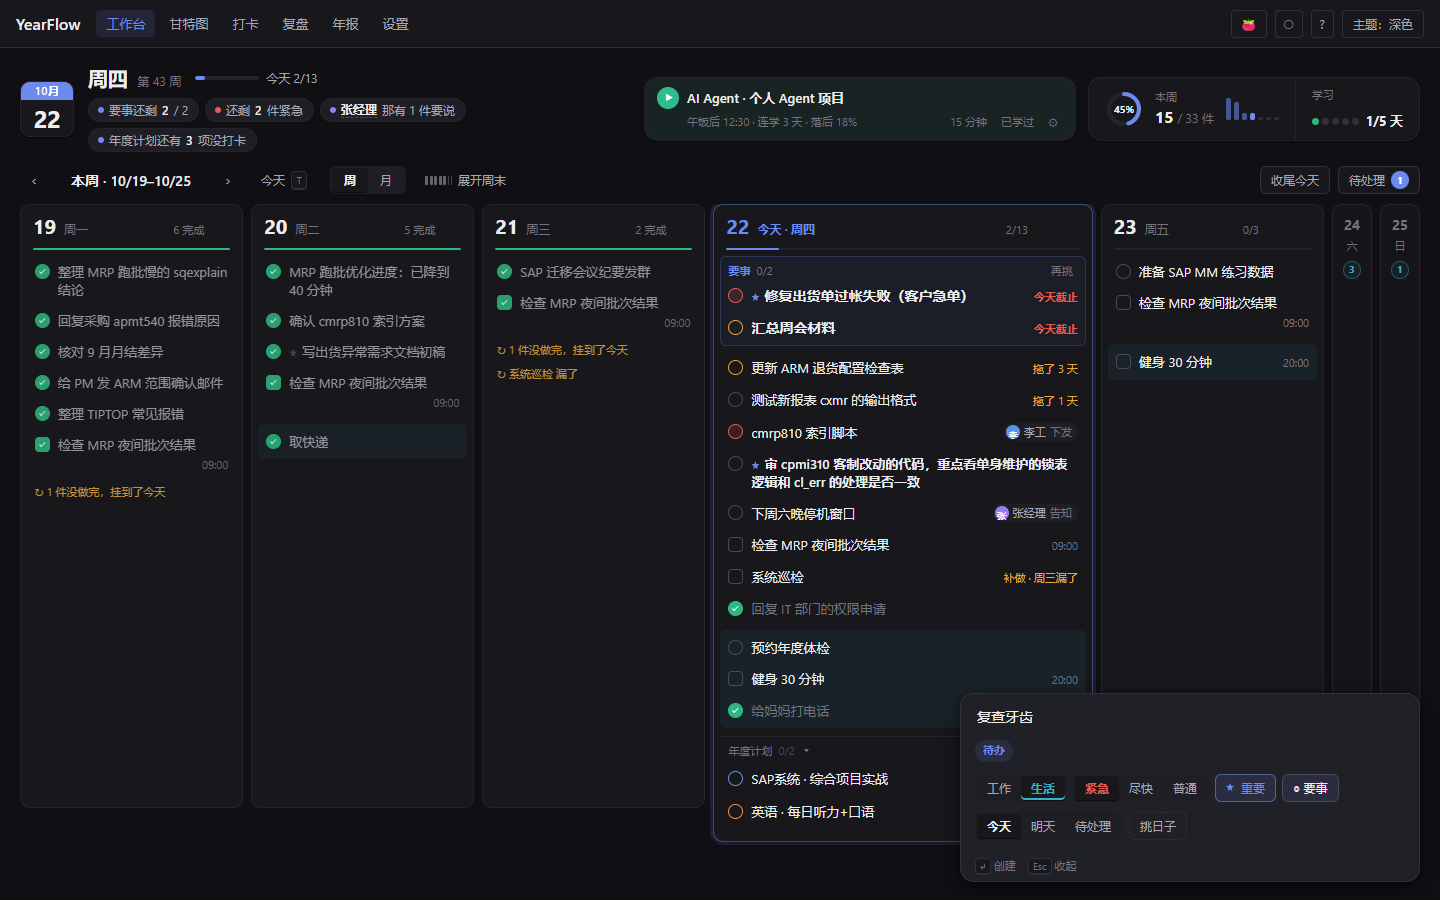
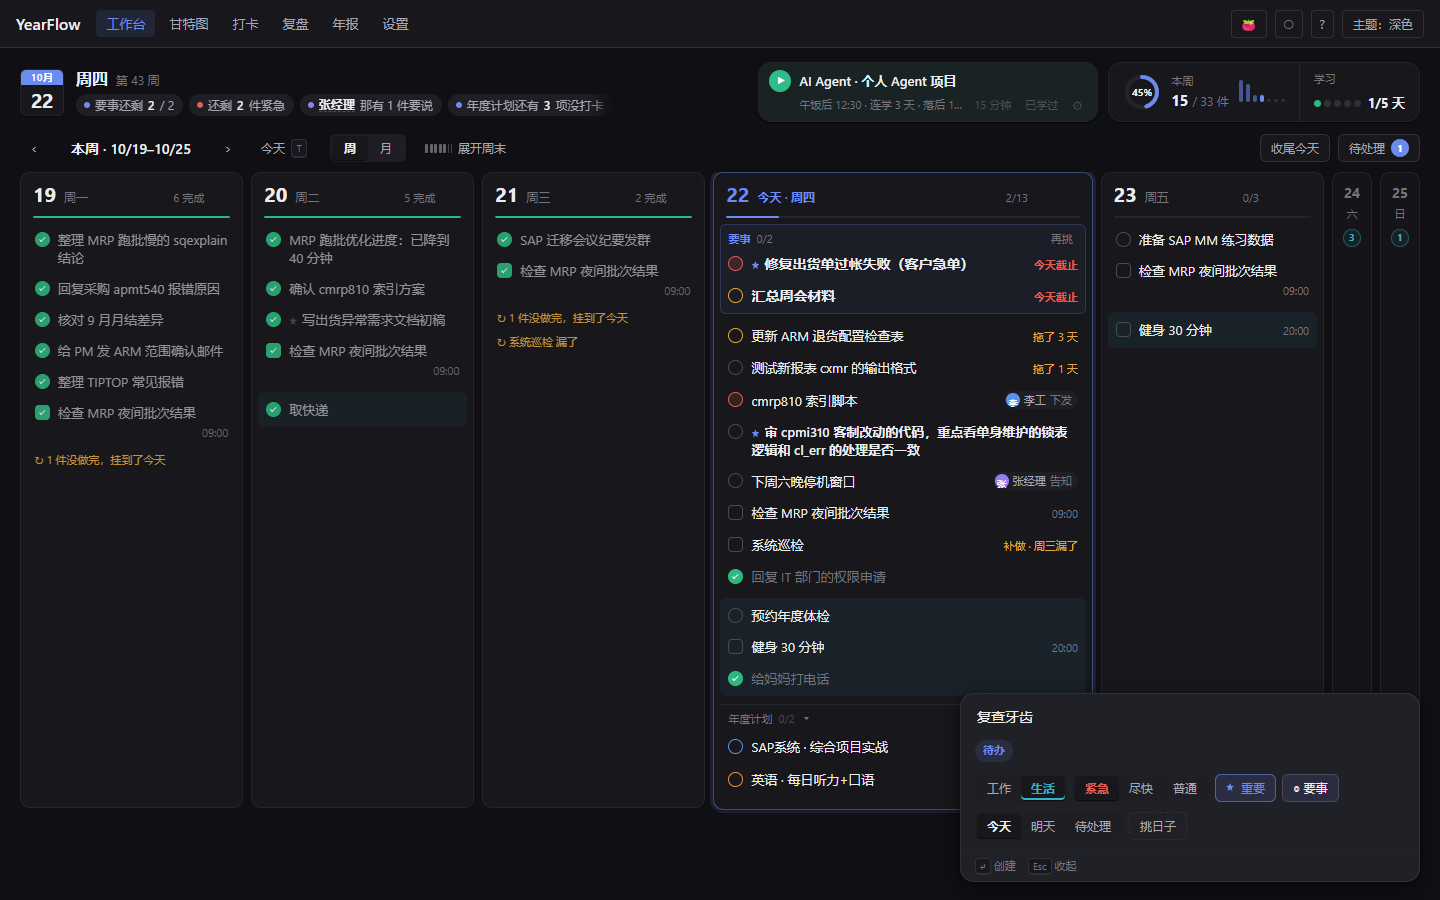
feat: 工作台头部一行到底——学习卡与统计卡回到头部同一行，精简到约 99px
- 不再折行：日历小牌缩小、去掉头部今天进度条、脉搏药丸单行淡出、学习卡先收窄且次要操作悬停才亮、统计卡收紧、里程碑长名截断
- 新增 check-desk-hero.mjs：1280/1440/1536/1920 × 深浅断言一行、≤100px、无溢出、同高

diff --git a/src/desk/desk.css b/src/desk/desk.css
@@ -82,29 +82,30 @@
   background: var(--bg-panel);
 }
 
-/* ── 头部：日历小牌 + 今天的局面 ｜ 学习卡 ｜ 本周进行到哪 ── */
+/* ── 头部：一行到底、不折行 —— 日历小牌 + 今天的局面 ｜ 学习卡 ｜ 本周 · 学习 · 里程碑 ──
+   负责人 10-19：头部尽量精简、别折到第二行。空间不够时先省略脉搏药丸和长名字，再收窄学习卡。 */
 .dk-hero {
   display: flex;
-  flex-wrap: wrap; /* 窄窗：学习卡 + 统计卡整体折到下一行 */
   align-items: center;
-  gap: 12px 20px;
-  padding: 18px var(--dk-pad) 14px;
+  gap: 16px;
+  padding: 14px var(--dk-pad) 12px;
   flex-shrink: 0;
+  min-width: 0;
 }
 .dk-h-main {
-  flex: 1 1 440px;
+  flex: 1 1 0;
   min-width: 0;
   display: flex;
   align-items: center;
-  gap: 14px;
+  gap: 12px;
 }
 /* 日历小牌：上一条强调色写月份，下面大号日期 */
 .dk-h-cal {
-  width: 54px;
+  width: 44px;
   flex-shrink: 0;
   display: flex;
   flex-direction: column;
-  border-radius: var(--radius-lg);
+  border-radius: var(--radius-md);
   overflow: hidden;
   background: var(--bg-panel);
   border: 1px solid var(--border-subtle);
@@ -114,82 +115,62 @@
 .dk-h-cal .m {
   background: var(--accent);
   color: var(--text-on-accent);
-  font-size: var(--font-11);
+  font-size: 10px;
   font-weight: 600;
-  line-height: 18px;
+  line-height: 15px;
   letter-spacing: 0.04em;
 }
 .dk-h-cal .d {
-  font-size: var(--font-24);
+  font-size: var(--font-20);
   font-weight: 650;
-  line-height: 36px;
+  line-height: 30px;
   letter-spacing: -0.02em;
 }
 .dk-h-txt {
   min-width: 0;
   display: flex;
   flex-direction: column;
-  gap: 8px;
+  gap: 5px;
 }
 .dk-h-title {
   display: flex;
   align-items: baseline;
-  gap: 10px;
+  gap: 8px;
   white-space: nowrap;
 }
 .dk-h-title .wd {
-  font-size: var(--font-20);
+  font-size: var(--font-16);
   font-weight: 650;
-  letter-spacing: -0.01em;
   line-height: 1.2;
 }
 .dk-h-title .wk {
   font-size: var(--font-12);
   color: var(--text-tertiary);
 }
-.dk-h-prog {
-  align-self: center;
-  display: inline-flex;
-  align-items: center;
-  gap: 7px;
-  margin-left: 4px;
-  font-size: var(--font-12);
-  color: var(--text-secondary);
-}
-.dk-h-prog .bar {
-  width: 64px;
-  height: 4px;
-  border-radius: 2px;
-  background: var(--border-subtle);
-  overflow: hidden;
-}
-.dk-h-prog .bar i {
-  display: block;
-  height: 100%;
-  border-radius: 2px;
-  background: var(--accent);
-}
+/* 脉搏：一行小药丸，放不下的从右边淡出，不折行 */
 .dk-h-say {
   font-size: var(--font-12);
   color: var(--text-secondary);
   display: flex;
-  flex-wrap: wrap;
+  flex-wrap: nowrap;
   gap: 6px;
+  min-width: 0;
+  overflow: hidden;
+  mask-image: linear-gradient(to right, #000 calc(100% - 24px), transparent);
 }
 .dk-h-say > span {
   display: inline-flex;
   align-items: center;
   gap: 5px;
-  height: 24px;
-  padding: 0 10px 0 9px;
-  border-radius: 12px;
+  flex-shrink: 0;
+  height: 22px;
+  padding: 0 9px 0 8px;
+  border-radius: 11px;
   background: var(--bg-subtle);
-  border: 1px solid var(--border-subtle);
   white-space: nowrap;
 }
 .dk-h-say > span.sd {
   background: var(--accent-soft);
-  border-color: color-mix(in srgb, var(--accent) 30%, transparent);
 }
 .dk-h-say i {
   width: 6px;
@@ -213,17 +194,16 @@
 }
 
 .dk-h-side {
+  flex: 0 1 auto;
   display: flex;
   align-items: stretch;
-  gap: 12px;
+  gap: 10px;
   min-width: 0;
-  max-width: 100%;
 }
-/* 学习卡在头部：和统计卡同一张卡片样式、同高 */
+/* 学习卡在头部：和统计卡同一张卡片样式、同高；先于统计卡收窄 */
 .dk-h-study {
-  width: clamp(320px, 30vw, 440px);
-  min-width: 0;
-  flex-shrink: 1;
+  flex: 0 1 340px;
+  min-width: 220px;
   display: flex;
 }
 .dk-h-study:empty {
@@ -231,20 +211,59 @@
 }
 .dk-hero .dk-h-study > * {
   flex: 1;
+  min-width: 0;
   margin: 0;
   border: 1px solid var(--border-subtle);
   border-radius: var(--dk-card-radius);
   box-shadow: var(--shadow-sm);
 }
 .dk-h-study > .dk-study {
-  padding: 9px 12px 8px;
+  padding: 7px 10px 6px;
   display: flex;
   flex-direction: column;
   justify-content: center;
 }
+.dk-h-study .dk-st-what {
+  white-space: nowrap;
+  overflow: hidden;
+  text-overflow: ellipsis;
+}
+.dk-h-study .dk-st-why {
+  flex-wrap: nowrap;
+  white-space: nowrap;
+}
+.dk-h-study .dk-st-reason {
+  flex: 1;
+  overflow: hidden;
+  text-overflow: ellipsis;
+}
+.dk-h-study .dk-st-why > .dk-grow {
+  display: none;
+}
+/* 次要操作平时淡、悬停才亮，头部保持安静 */
+.dk-h-study .dk-st-a,
+.dk-h-study .dk-st-gear {
+  flex-shrink: 0;
+  opacity: 0.55;
+  transition: opacity 0.12s var(--ease);
+}
+.dk-h-study > .dk-study:hover .dk-st-a,
+.dk-h-study > .dk-study:hover .dk-st-gear,
+.dk-h-study .dk-st-a:focus-visible,
+.dk-h-study .dk-st-gear:focus-visible {
+  opacity: 1;
+}
+.dk-h-study .dk-st-acts {
+  margin-top: 4px;
+  flex-wrap: nowrap;
+}
+.dk-h-study .dk-study .dk-btn {
+  height: 22px;
+  padding: 0 8px;
+}
 .dk-h-study > .dk-st-line {
   width: auto;
-  padding: 0 14px;
+  padding: 0 12px;
   background: var(--bg-panel);
 }
 .dk-h-study > .dk-st-line:hover {
@@ -257,6 +276,7 @@
   background: transparent;
 }
 .dk-stats {
+  flex-shrink: 0;
   display: flex;
   align-items: stretch;
   background: var(--bg-panel);
@@ -265,11 +285,11 @@
   box-shadow: var(--shadow-sm);
 }
 .dk-stat {
-  padding: 9px 16px;
+  padding: 7px 14px;
   display: flex;
   flex-direction: column;
   justify-content: center;
-  gap: 3px;
+  gap: 2px;
   min-width: 0;
 }
 .dk-stat + .dk-stat {
@@ -281,7 +301,7 @@
   white-space: nowrap;
 }
 .dk-stat .v {
-  font-size: var(--font-16);
+  font-size: var(--font-15);
   font-weight: 650;
   white-space: nowrap;
 }
@@ -294,16 +314,16 @@
 .dk-stat.week {
   flex-direction: row;
   align-items: center;
-  gap: 12px;
+  gap: 10px;
 }
 .dk-spark {
   display: flex;
   align-items: flex-end;
   gap: 3px;
-  height: 22px;
+  height: 20px;
 }
 .dk-spark span {
-  width: 5px;
+  width: 4px;
   border-radius: 2px;
   background: var(--border-default);
 }
@@ -316,7 +336,7 @@
 .dk-ms {
   display: flex;
   align-items: center;
-  gap: 6px;
+  gap: 5px;
   font-size: var(--font-12);
   color: var(--text-secondary);
   white-space: nowrap;
@@ -324,12 +344,19 @@
 .dk-ms i {
   font-style: normal;
   color: var(--c);
-  font-size: 10px;
+  font-size: 9px;
+}
+.dk-ms span {
+  max-width: 120px;
+  overflow: hidden;
+  text-overflow: ellipsis;
 }
 .dk-ms em {
   font-style: normal;
   font-weight: 650;
   color: var(--text-primary);
+  margin-left: auto;
+  padding-left: 6px;
 }
 
 /* ── 工具条 ── */

diff --git a/src/desk/DeskHero.tsx b/src/desk/DeskHero.tsx
@@ -1,5 +1,5 @@
 /**
- * 头部：左边日历小牌 + 星期/周次/今天进度 + 今日脉搏（一排小药丸说清今天的局面，@人可点开人物卡）；
+ * 头部（一行到底、不折行）：左边日历小牌 + 星期/周次 + 今日脉搏（一排小药丸说清今天的局面，@人可点开人物卡）；
  * 右边学习卡 + 一张安静的统计卡（同高并排）：本周完成环 + 每天完成数小柱、学习周目标点阵、最近两个里程碑倒计时（甘特联动，保留紧迫感）。
  */
 import { useMemo } from 'react';
@@ -53,7 +53,6 @@ export function DeskHero({ today, items, dayOf, plan, study }: { today: string; 
   );
 
   const d = toDay(today);
-  const tPct = t.count.total ? Math.round((t.count.done / t.count.total) * 100) : 0;
   return (
     <section className="dk-hero">
       <div className="dk-h-main">
@@ -65,14 +64,6 @@ export function DeskHero({ today, items, dayOf, plan, study }: { today: string; 
           <div className="dk-h-title">
             <span className="wd">{weekdayCn(today)}</span>
             <span className="wk tnum">第 {d.isoWeek()} 周</span>
-            {t.count.total > 0 && (
-              <span className="dk-h-prog tnum" title={`今天完成 ${t.count.done} / ${t.count.total}`}>
-                <span className="bar">
-                  <i style={{ width: `${tPct}%` }} />
-                </span>
-                今天 {t.count.done}/{t.count.total}
-              </span>
-            )}
           </div>
           <div className="dk-h-say">
             {sdDue && (
@@ -203,7 +194,8 @@ export function DeskHero({ today, items, dayOf, plan, study }: { today: string; 
               {nextMs.map((m) => (
                 <div key={m.id} className="dk-ms" style={{ '--c': goalColor(goals[m.goalId].color) } as React.CSSProperties} title={`${goals[m.goalId].name} · ${m.date}`}>
                   <i>◆</i>
-                  {m.name} <em className="tnum">{diffDays(m.date, today)}</em> 天
+                  <span>{m.name}</span>
+                  <em className="tnum">{diffDays(m.date, today)} 天</em>
                 </div>
               ))}
             </div>

diff --git a/docs/DESK_SPEC.md b/docs/DESK_SPEC.md
@@ -7,6 +7,7 @@
 > **W2 拍板（2026-10-16）**：学习目标 = AI 基础 / SAP / 英语（学习卡上 ⚙ 可改）· 每次学 30 分钟、短版 15 分钟 · 固定学习时间与最晚提醒由负责人自己设（默认不设 ⇒ 不提醒）· 桌面版关窗收进托盘、**默认不开机自启**（托盘/设置里可开）。
 > **v3 拍板（2026-10-19，负责人反馈一轮）**：日卡自上而下 = 要事 → 学习（精简两行）→ 工作区 → 生活区 → 年度计划（底部、可收起、可选显示哪些）· 工作/生活用**非文字**区分（生活区 = 青色左条 + 极淡底；月历/抽屉里的生活行带同色左条）· 做完的**就地显示**不折叠（只有「不做了」收在卡底）· 周末默认收成窄条（工具条与窄条可展开，记在本机）· 标题自动换行 · 新建卡可直接点选 工作/生活 · 紧急度 · 重要 · 要事 · 哪天 · 新增三项方法：**要事**（Ivy Lee，每天 ≤3 件）、**重要**（艾森豪威尔第二轴）、**下班收尾**（Cal Newport shutdown）。细则见 §十一。
 > **v3.1（2026-10-19，负责人反馈）**：学习卡挪到**头部**，在统计卡（本周 / 学习 / 里程碑）左边、同高并排，周历月历都看得到；日卡里不再放学习卡，今日脉搏里也不再重复「还没学」。卡片一律**不要左色条**：生活区、生活行只用极淡生活色底区分；学习卡只用淡淡的目标色底。头部左侧改为日历小牌（月份条 + 大号日期）+ 星期 / 第几周 / 今天进度细条 + 一排小药丸。窄窗时学习卡 + 统计卡整体折到下一行。
+> **v3.2（2026-10-19）**：头部**一行到底、不折行**（≤100px）：日历小牌 + 星期/周次 + 单行脉搏药丸（放不下淡出）｜学习卡（先收窄、次要操作悬停才亮）｜统计卡。去掉头部的今天进度条。
 > 版式以 `docs/desk/w0-prototype.html`（W0 原型 v2）为准；v3 的改动以 §十一 为准。
 
 ---

diff --git a/docs/PROGRESS.md b/docs/PROGRESS.md
@@ -1029,3 +1029,12 @@ Document PiP 与主页面**同一个 JS realm**，所以旧实现是 `createPort
 **验收**：`tsc -b` + `oxlint` 干净；vitest 329 全绿。`check-desk-v3.mjs` 全过（新增：学习卡与统计卡同高、说明行不折行、学习卡/生活区无 inset 左色条）；`capture-desk-study.mjs` 全过（新增：学习卡在头部且在统计卡左边、同高；脉搏不再重复学习状态；1 分钟番茄到点自动打卡后头部收成「学过了」一行）。截图 `study-*`、`v3-*` 深浅 × 1440/1920 过目。`electron:build` 已重建。
 
 **负责人要做的**：右键托盘「退出」后重开桌面版。
+
+## 2026-10-19 工作台 v3.2：头部一行到底
+
+负责人反馈：1920 屏 125% 缩放下学习卡 + 统计卡被折到第二行，头部太高；要「最简洁好看的头部」。
+
+- 头部不再折行：日历小牌缩小（44px）、去掉「今天 x/y」进度条（日卡头已有）、脉搏药丸单行，放不下的从右边淡出；学习卡 `flex: 0 1 340px`（最窄 220px）先收窄，标题/说明省略号，次要操作（15 分钟 / 换一个 / 已学过 / ⚙）平时淡、悬停才亮；统计卡缩小内边距，里程碑长名字截断、天数右对齐。头部高度 ≈ 190px → 99px。
+- 新增 `scripts/check-desk-hero.mjs`：1280 / 1440 / 1536 / 1920 × 深浅，断言一行、≤100px、无横向溢出、学习卡与统计卡同高、统计卡三块都在；截图 `docs/screenshots/desk/hero-*.png`。
+
+**验收**：`tsc -b` + `oxlint` 干净；`check-desk-hero` / `check-desk-v3` / `capture-desk-study` 全过；`electron:build` 已重建。
